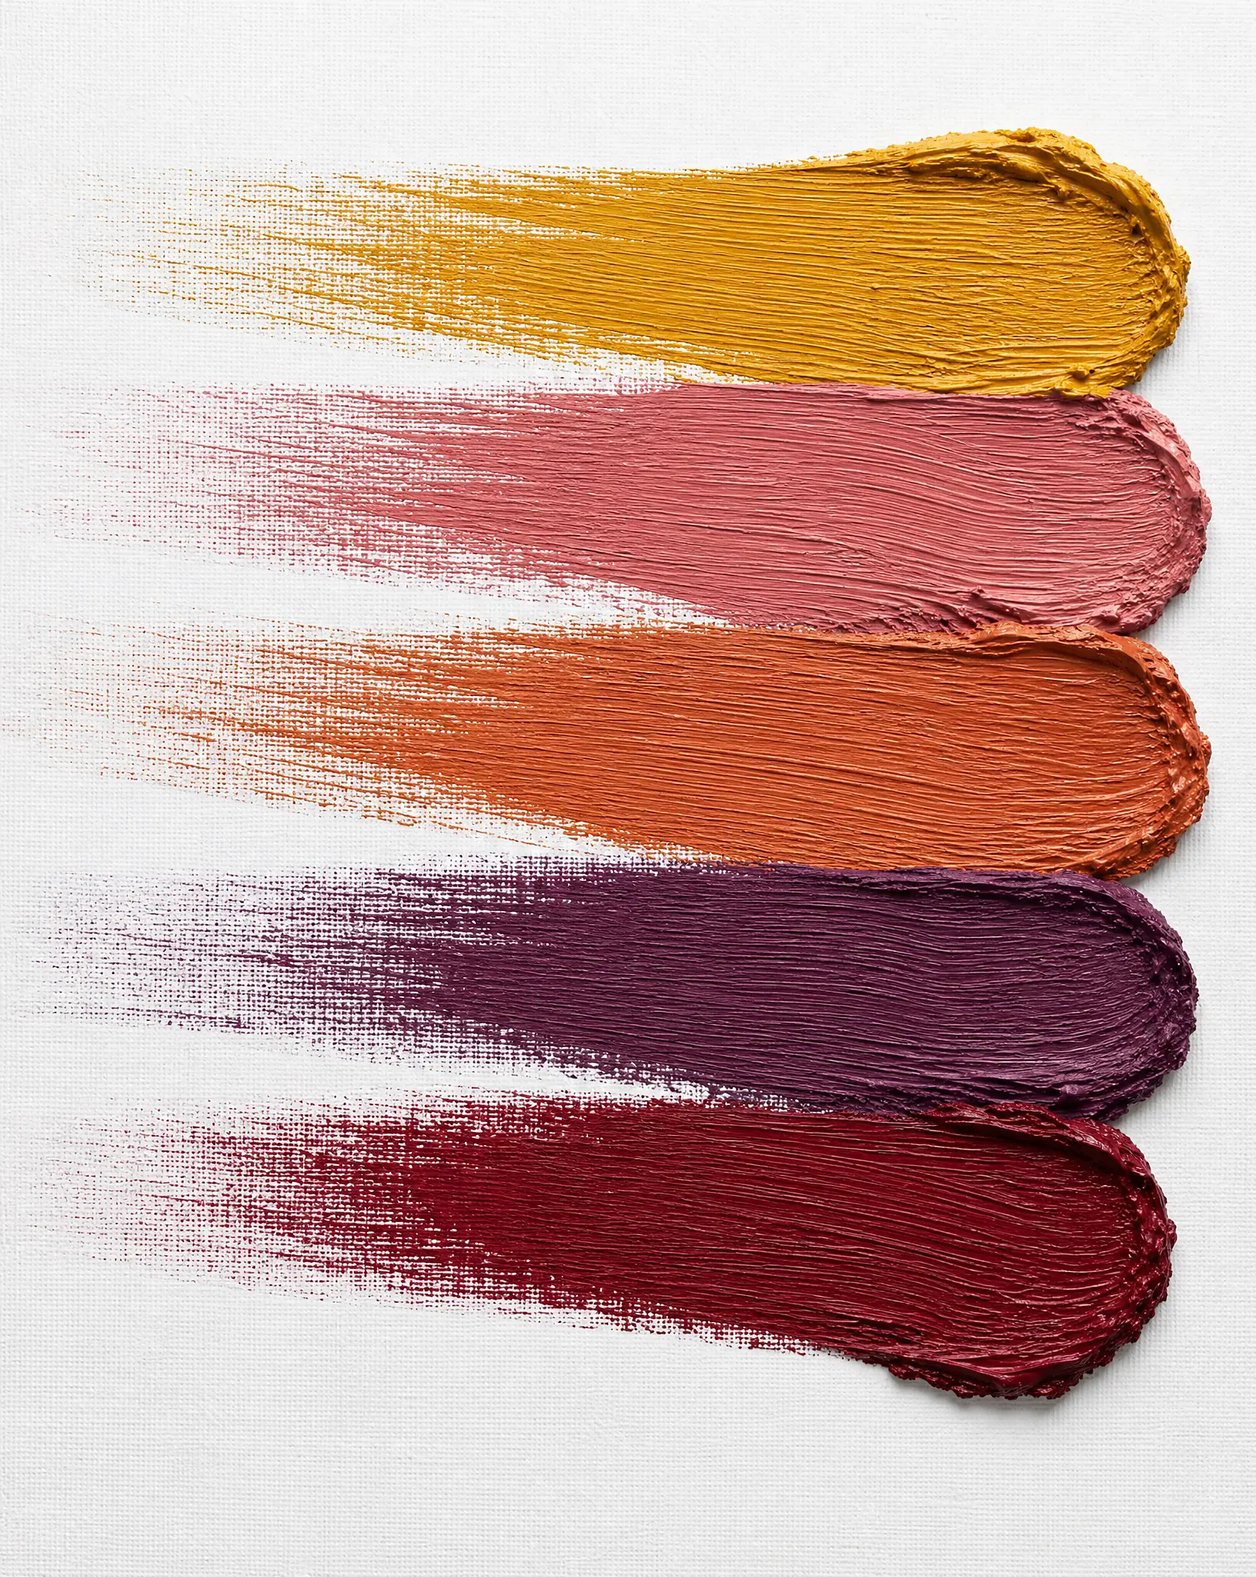
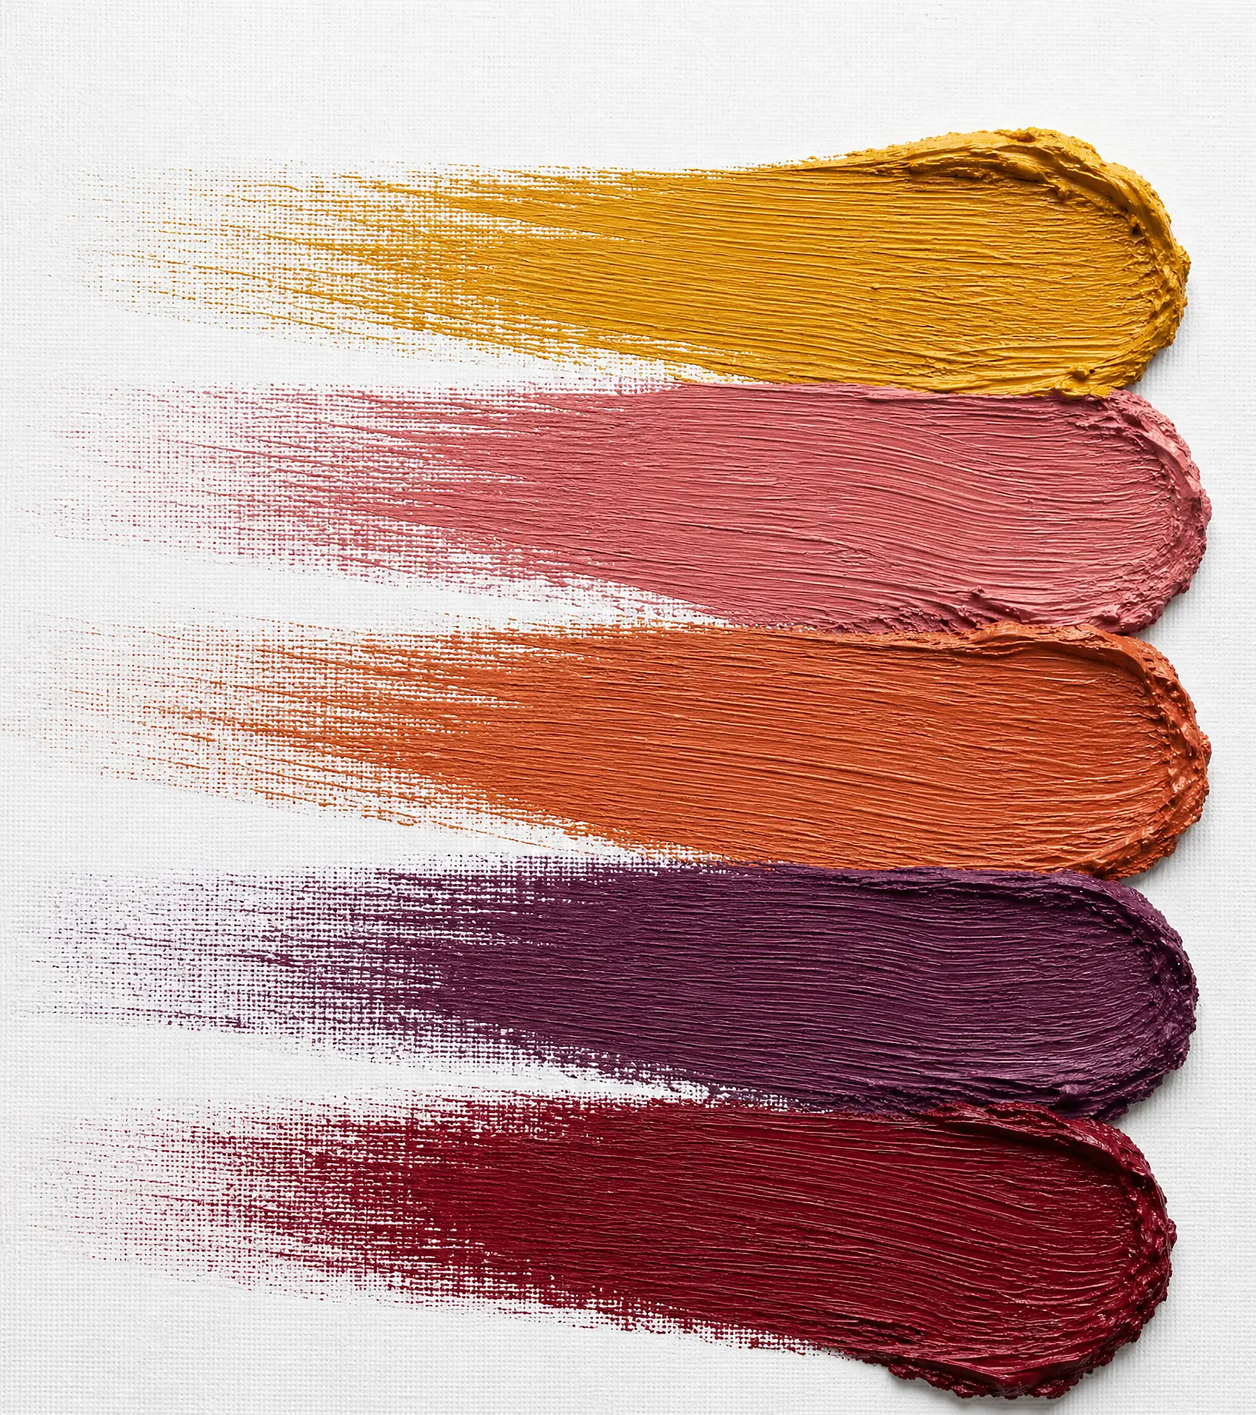
Fill the mobile and tablet hero to its bottom edge
The portrait photograph carries 210px of bare canvas below the last
stroke. Below 1025px the hero frame is always narrower than the artwork,
so object-fit: cover fits by height and crops width — every row of the
file renders, and that margin showed as an empty band under the paint at
the foot of the hero.

Two changes, both below 1025px. Desktop is pixel-identical: same source,
same crops, same files, and its own object-position sits in the
min-width: 1025px blocks.

The source is trimmed at row 1838, the last row carrying pigment,
measured off the file rather than eyeballed. Nothing real is discarded —
the cut is at the paint boundary, not into it. That takes the portrait
from 0.797:1 to 0.888:1; the srcset width descriptors are unchanged, so
image selection is unaffected and no page HTML moves.

The crop shifts from 55% to 85%. The strokes run at a slight diagonal
and their dry-brush tails rise to the left, so a centred window still
left a pale wedge in the bottom corner where the burgundy had already
lifted off. At 85% the burgundy fills the foot of the frame and the
loaded rounded ends of the plum and burgundy come into view, while the
dry fade still sits under the headline. Paint coverage across the hero's
bottom 60px goes from 24-37% to 45-57% on phones.

That rule had to move to the end of the stylesheet to take effect. The
object-position in the max-width: 1024px block was a bare declaration
after the preceding rule had already closed: dead, and it also dropped
[…]

diff --git a/public/assets/css/main.css b/public/assets/css/main.css
@@ -2714,22 +2714,10 @@ a.card:hover { box-shadow: 0 14px 34px rgba(15, 50, 56, 0.12); }
     object-fit: cover;
     border-radius: 0;
   }
-  /* This is now a dedicated portrait (1632x2048) image composed for this
-     aspect ratio, not a crop of the desktop photo — see home.js's image
-     config and the single 1025px <picture> breakpoint in layout.js's
-     heroIntro(). Because the image itself is already taller than any
-     tested container (390x680 through 820x1180 all have a wider aspect
-     ratio than the source's own 0.797), object-fit: cover here only ever
-     crops width, never height — the full vertical extent always renders,
-     so only object-position-x matters.
-     55% sits just right of centre: it keeps the front door and the pair
-     of shuttered openings — the part of the facade that actually reads as
-     "freshly painted" — in frame across the tested widths, while trimming
-     the olive-tree foliage that fills the left edge of the source. The
-     sister site used 90% here to hold a piece of hardware near the right
-     edge in frame; that asset detail is gone from this crop, so the value
-     is retuned to the facade instead of inherited unchanged. */
-    object-position: 55% 50%;
+  /* An object-position for this breakpoint used to sit here, as a bare
+     declaration after the rule above had already closed — dead, and it took
+     the rest of this media query out to top level with it. The live rule is
+     at the end of the file; see HERO CROP BELOW 1025PX. */
   }
   /* Scrim: top-to-bottom (not desktop's left-right) — darkest behind the
      header/text block at the top, easing out by roughly the point the
@@ -3662,12 +3650,10 @@ a.card:hover { box-shadow: 0 14px 34px rgba(15, 50, 56, 0.12); }
     object-fit: cover;
     border-radius: 0;
   }
-  /* Same dedicated portrait (1455x1826) mobile/tablet asset as the
-     homepage's own hero, with the same facade composition — reusing the
-     homepage's own tuned 55% 50% crop keeps the door and shuttered
-     openings fully in frame across the tested widths. */
+  /* Same portrait photograph as the homepage's own hero, so it takes the
+     same crop — see HERO CROP BELOW 1025PX at the end of the file. */
   .page-lagos-rs .hero-stack--split .hero-stack-media picture img {
-    object-position: 55% 50%;
+    object-position: 85% 50%;
   }
   /* Rollout towns without their own photography yet (see
      hasPilotPhotography in town.js) render the standard placeholder box
@@ -4333,5 +4319,34 @@ a.card:hover { box-shadow: 0 14px 34px rgba(15, 50, 56, 0.12); }
     width: 30px;
     height: 30px;
     margin-bottom: 6px;
+  }
+}
+
+/* -------------------------------------------------------------------------
+   HERO CROP BELOW 1025PX
+   -------------------------------------------------------------------------
+   Below 1025px the hero is the portrait photograph, and the frame is always
+   narrower than the artwork — so `object-fit: cover` crops width and never
+   height. Every row of the file renders, which is why its dead bottom margin
+   is trimmed at source in tools/paint/hero_from_photo.py rather than being
+   hidden here, and why only object-position-x does anything.
+
+   85% pushes the window most of the way toward the loaded end of the strokes.
+   The strokes run at a slight diagonal and their dry-brush tails rise to the
+   left, so a centred window leaves a pale wedge of bare canvas in the bottom
+   corner where the burgundy has already lifted off. At 85% the burgundy fills
+   the foot of the frame and the rounded loaded ends of the plum and burgundy
+   come into view, while the dry fade still sits under the headline. Contrast
+   is unaffected — the stats measure 4.89:1 here against 4.96:1 centred.
+
+   This lives at the end of the file rather than in the max-width: 1024px
+   block that looks like its home, because the declaration there was orphaned
+   after a closed rule and never applied. Desktop is untouched: its own crop
+   is set inside the min-width: 1025px blocks and is not matched here.
+   ------------------------------------------------------------------------- */
+@media (max-width: 1024px) {
+  .page-home .hero-stack--split .hero-stack-media picture img,
+  .page-lagos-rs .hero-stack--split .hero-stack-media picture img {
+    object-position: 85% 50%;
   }
 }

diff --git a/src/assets/css/main.css b/src/assets/css/main.css
@@ -2714,22 +2714,10 @@ a.card:hover { box-shadow: 0 14px 34px rgba(15, 50, 56, 0.12); }
     object-fit: cover;
     border-radius: 0;
   }
-  /* This is now a dedicated portrait (1632x2048) image composed for this
-     aspect ratio, not a crop of the desktop photo — see home.js's image
-     config and the single 1025px <picture> breakpoint in layout.js's
-     heroIntro(). Because the image itself is already taller than any
-     tested container (390x680 through 820x1180 all have a wider aspect
-     ratio than the source's own 0.797), object-fit: cover here only ever
-     crops width, never height — the full vertical extent always renders,
-     so only object-position-x matters.
-     55% sits just right of centre: it keeps the front door and the pair
-     of shuttered openings — the part of the facade that actually reads as
-     "freshly painted" — in frame across the tested widths, while trimming
-     the olive-tree foliage that fills the left edge of the source. The
-     sister site used 90% here to hold a piece of hardware near the right
-     edge in frame; that asset detail is gone from this crop, so the value
-     is retuned to the facade instead of inherited unchanged. */
-    object-position: 55% 50%;
+  /* An object-position for this breakpoint used to sit here, as a bare
+     declaration after the rule above had already closed — dead, and it took
+     the rest of this media query out to top level with it. The live rule is
+     at the end of the file; see HERO CROP BELOW 1025PX. */
   }
   /* Scrim: top-to-bottom (not desktop's left-right) — darkest behind the
      header/text block at the top, easing out by roughly the point the
@@ -3662,12 +3650,10 @@ a.card:hover { box-shadow: 0 14px 34px rgba(15, 50, 56, 0.12); }
     object-fit: cover;
     border-radius: 0;
   }
-  /* Same dedicated portrait (1455x1826) mobile/tablet asset as the
-     homepage's own hero, with the same facade composition — reusing the
-     homepage's own tuned 55% 50% crop keeps the door and shuttered
-     openings fully in frame across the tested widths. */
+  /* Same portrait photograph as the homepage's own hero, so it takes the
+     same crop — see HERO CROP BELOW 1025PX at the end of the file. */
   .page-lagos-rs .hero-stack--split .hero-stack-media picture img {
-    object-position: 55% 50%;
+    object-position: 85% 50%;
   }
   /* Rollout towns without their own photography yet (see
      hasPilotPhotography in town.js) render the standard placeholder box
@@ -4333,5 +4319,34 @@ a.card:hover { box-shadow: 0 14px 34px rgba(15, 50, 56, 0.12); }
     width: 30px;
     height: 30px;
     margin-bottom: 6px;
+  }
+}
+
+/* -------------------------------------------------------------------------
+   HERO CROP BELOW 1025PX
+   -------------------------------------------------------------------------
+   Below 1025px the hero is the portrait photograph, and the frame is always
+   narrower than the artwork — so `object-fit: cover` crops width and never
+   height. Every row of the file renders, which is why its dead bottom margin
+   is trimmed at source in tools/paint/hero_from_photo.py rather than being
+   hidden here, and why only object-position-x does anything.
+
+   85% pushes the window most of the way toward the loaded end of the strokes.
+   The strokes run at a slight diagonal and their dry-brush tails rise to the
+   left, so a centred window leaves a pale wedge of bare canvas in the bottom
+   corner where the burgundy has already lifted off. At 85% the burgundy fills
+   the foot of the frame and the rounded loaded ends of the plum and burgundy
+   come into view, while the dry fade still sits under the headline. Contrast
+   is unaffected — the stats measure 4.89:1 here against 4.96:1 centred.
+
+   This lives at the end of the file rather than in the max-width: 1024px
+   block that looks like its home, because the declaration there was orphaned
+   after a closed rule and never applied. Desktop is untouched: its own crop
+   is set inside the min-width: 1025px blocks and is not matched here.
+   ------------------------------------------------------------------------- */
+@media (max-width: 1024px) {
+  .page-home .hero-stack--split .hero-stack-media picture img,
+  .page-lagos-rs .hero-stack--split .hero-stack-media picture img {
+    object-position: 85% 50%;
   }
 }

diff --git a/tools/paint/hero_from_photo.py b/tools/paint/hero_from_photo.py
@@ -19,11 +19,19 @@ rather than beside it, so the argument there is weaker — but mirroring it
 too keeps the artwork facing the same way at every width, so resizing past
 1025px does not flip the strokes end for end.
 
-The portrait source needs no recomposition: it is already 0.797:1, the exact
-frame the mobile hero renders into, so it is resized rather than cropped or
-laid onto a made-up ground. (The previous mobile art was the 16:9 photograph
-pasted low on a matching canvas colour, which was only ever a way of not
-losing three of the five strokes to a crop.)
+The portrait source needs no recomposition — it is shot in the orientation
+the mobile hero renders into, so it is resized rather than cropped to shape
+or laid onto a made-up ground. (The previous mobile art was the 16:9
+photograph pasted low on a matching canvas colour, which was only ever a way
+of not losing three of the five strokes to a crop.)
+
+Its dead bottom margin is trimmed, though. Below 1025px the hero frame is
+always narrower than the artwork, so `object-fit: cover` fits the image by
+HEIGHT and crops width — which means every row of the file renders, and the
+photograph's bottom 210px of bare canvas showed as an empty band under the
+strokes at the foot of the hero. Trimming to the last row that carries paint
+puts the burgundy on the frame's bottom edge. Nothing is discarded: the cut
+is at the paint boundary, not into it.
 """
 from PIL import Image, ImageOps, ImageFilter
 
@@ -75,10 +83,18 @@ def main():
     # compared side by side at 1:1 against q82, no difference is visible —
     # while the flat pigment fields that would show banding are exactly where
     # the encoder spends least. Desktop is untouched at q82.
+    # PAINT_BOTTOM is the last row of the portrait source carrying pigment,
+    # measured off the file rather than eyeballed. Everything below it is
+    # bare canvas, and below 1025px every row renders (see the module
+    # docstring), so it would show as an empty band under the strokes.
+    # Trimming it takes the source from 0.797:1 to 0.888:1; the srcset width
+    # descriptors are unchanged, so image selection is unaffected.
+    PAINT_BOTTOM = 1838
     m = ImageOps.mirror(Image.open(SRC_MOBILE).convert('RGB'))
-    save(fit(m,  850, 1067), IMG + 'hero-paint-mobile@sm', q=76)
-    save(fit(m, 1250, 1569), IMG + 'hero-paint-mobile',    q=76)
-    save(fit(m, 1632, 2048), IMG + 'hero-paint-mobile@2x', q=76, sharpen=True)
+    m = m.crop((0, 0, m.width, PAINT_BOTTOM))
+    save(fit(m,  850,  957), IMG + 'hero-paint-mobile@sm', q=76)
+    save(fit(m, 1250, 1408), IMG + 'hero-paint-mobile',    q=76)
+    save(fit(m, 1632, 1838), IMG + 'hero-paint-mobile@2x', q=76, sharpen=True)
 
     print('hero built: desktop from %s, mobile/tablet from %s (both mirrored)'
           % (SRC_DESKTOP, SRC_MOBILE))

diff --git a/README.md b/README.md
@@ -66,11 +66,12 @@ The `/public` folder is a complete static site — point any static host at it:
 **v4 "paint-craft"** — warm, tactile and pigment-led, replacing the navy/crimson palette inherited from the sister site. Structure, layout, grid, components, breakpoints and the measured hero budgets are unchanged; this is a visual restyle, not a rebuild.
 
 - **Page palette** — terracotta `#c25a38` (the accent; `#b85132` wherever it sits behind text, so button labels clear WCAG AA), ochre `#d9a02b`, dusty pink `#d9a08c`, deep brown `#3a241a` for text and dark surfaces, cream `#fbf4e8` as the ground.
-- **Hero** — two photographs of the same five impasto strokes (ochre, dusty rose, orange, deep plum, burgundy) on artist's canvas, one per orientation: `paint example.png` (2048×1152) for desktop from 1025px up, `paint-mobile.png` (1632×2048) for mobile and tablet below it. `tools/paint/hero_from_photo.py` owns the resulting hero files; `generate.py` deliberately no longer writes them, or a routine run would silently overwrite the artwork. Both sources are **mirrored**: the paint mass sits on the left of each photograph and desktop puts its headline there, so unmirrored every word would sit on thick opaque pigment. Mobile stacks its text above the image rather than beside it, so the argument is weaker there — but mirroring it too keeps the artwork facing the same way at every width, so resizing past 1025px does not flip the strokes end for end. The portrait source needs no recomposition: it is already 0.797:1, the exact frame the mobile hero renders into, where the art it replaced was the landscape photo pasted low on a matching canvas ground to avoid losing three of the five strokes to a crop.
-- **Hero resolution ceiling** — each large candidate is its source's native size, never an upscale. Mobile and tablet are now fully covered: a 1024px tablet at DPR 2 needs 2048px and the portrait source is exactly that tall. Desktop is not — a high-DPI desktop still upscales (1.9× at 1920 DPR 2), because the landscape source is 2048px wide. A light unsharp mask on the large landscape candidates recovers some crispness, but a higher-resolution original is the real fix.
+- **Hero** — two photographs of the same five impasto strokes (ochre, dusty rose, orange, deep plum, burgundy) on artist's canvas, one per orientation: `paint example.png` (2048×1152) for desktop from 1025px up, `paint-mobile.png` (1632×2048) for mobile and tablet below it. `tools/paint/hero_from_photo.py` owns the resulting hero files; `generate.py` deliberately no longer writes them, or a routine run would silently overwrite the artwork. Both sources are **mirrored**: the paint mass sits on the left of each photograph and desktop puts its headline there, so unmirrored every word would sit on thick opaque pigment. Mobile stacks its text above the image rather than beside it, so the argument is weaker there — but mirroring it too keeps the artwork facing the same way at every width, so resizing past 1025px does not flip the strokes end for end. The portrait source needs no recomposition — it is shot in the orientation the mobile hero renders into, where the art it replaced was the landscape photo pasted low on a matching canvas ground to avoid losing three of the five strokes to a crop. Its dead bottom margin **is** trimmed, at row 1838 (the last row carrying pigment, measured off the file). Below 1025px the frame is always narrower than the artwork, so `object-fit: cover` fits by height and crops width — every row renders, and the photograph's bottom 210px of bare canvas showed as an empty band under the strokes at the foot of the hero. Trimming takes the source from 0.797:1 to 0.888:1 and puts the burgundy on the frame's bottom edge; nothing is discarded, since the cut is at the paint boundary rather than into it.
+- **Hero resolution ceiling** — each large candidate is its source's native width, never an upscale, but neither source is wide enough to cover every device. Phones are fine (a 430px handset at DPR 3 needs 1290px and gets 1632px). A large tablet at DPR 2 needs 2048px and gets 1632px, a 1.26× upscale; a high-DPI desktop needs 3840px at 1920 DPR 2 and gets 2048px, a 1.9× one. A light unsharp mask on the large candidates recovers some crispness — it cannot add detail that is not in the source, so higher-resolution originals are the real fix, and the desktop one is the more urgent.
 - **Generated marks** — the section swatches, CTA watermark and favicon are still generated (`tools/paint/generate.py`) in a palette chosen to sit with the photograph.
 - **Hero stats, no band** — the trust row sits directly on the photograph, with no surface behind it. It cannot do that in its old shape: three labels on one line need about 631px of glyphs at 25px, while the hero's light field runs out around 460px across — left as it was the row measured 1.32:1. Neither reframing nor a soft wash fixes it (`object-position` swept 0–55% never rose above 1.31:1, because a 16:9 source in a 1.6 box is barely cropped horizontally; and extending the veil to 930px, past the text column itself, still only reached 2.11:1). What works is making the row narrow enough to stay on the light field: above 1025px it adopts the stacked value-over-label format the mobile hero already uses, which needs ~470px for the same three stats at the same 25px value size. Measured worst case 4.97:1 on the values and 5.60:1 on the labels, both at 1025px — clear of AA for normal text, with the paint running unbroken behind them. **Tablet (768–1024px) is the exception**: there the row is bottom-anchored over the strokes at every width, so it keeps its translucent cream panel — removing it drops the labels to 1.01:1.
-- **Hero resolution** — heroes are selected by *width* descriptor with `sizes="100vw"`, not by DPR. The hero is full-bleed, so what matters is viewport width × DPR: a 390px phone at DPR 2 needs 780px and takes the 850px portrait file, the same phone at DPR 3 needs 1170px and takes the 1250px one, while a 1024px tablet at DPR 2 needs 2048px and takes the 1632px one. A `2x` descriptor would hand that first phone the largest file purely for its pixel density. Desktop ships two candidates (1500/2048); **portrait ships three** (850/1250/1632), because its source is photographic edge to edge where the art it replaced was half flat synthetic ground — like for like the 1250px file is roughly three times the weight, and this is the LCP image on the platform least able to afford it. Portrait encodes at q76 rather than q82 for the same reason: the dry-brush grain and canvas tooth run through the whole frame and mask webp artefacts completely (compared at 1:1 against q82, no difference is visible), and it takes ~22% off. Desktop is untouched at q82.
+- **Hero resolution** — heroes are selected by *width* descriptor with `sizes="100vw"`, not by DPR. The hero is full-bleed, so what matters is viewport width × DPR: a 390px phone at DPR 2 needs 780px and takes the 850px portrait file, the same phone at DPR 3 needs 1170px and takes the 1250px one, while a 1024px tablet at DPR 2 needs 2048px and takes the largest, 1632px. A `2x` descriptor would hand that first phone the largest file purely for its pixel density. Desktop ships two candidates (1500/2048); **portrait ships three** (850/1250/1632), because its source is photographic edge to edge where the art it replaced was half flat synthetic ground — like for like the 1250px file is roughly three times the weight, and this is the LCP image on the platform least able to afford it. Portrait encodes at q76 rather than q82 for the same reason: the dry-brush grain and canvas tooth run through the whole frame and mask webp artefacts completely (compared at 1:1 against q82, no difference is visible), and it takes ~22% off. Desktop is untouched at q82.
+- **Hero crop below 1025px** — `object-position: 85% 50%`, set in a `HERO CROP BELOW 1025PX` block at the end of `main.css`. The strokes run at a slight diagonal and their dry-brush tails rise to the left, so a centred window leaves a pale wedge of bare canvas in the bottom corner where the burgundy has already lifted off; at 85% the burgundy fills the foot of the frame and the loaded rounded ends of the plum and burgundy come into view, while the dry fade still sits under the headline. Contrast is unaffected — the stats measure 4.89:1 against 4.96:1 centred. It lives at the end of the file because the declaration in the `max-width: 1024px` block that looks like its home was **orphaned after a closed rule** and never applied — the second instance of this defect found in the inherited stylesheet, and like the first it also drops the rest of that media query to top level. Neither was re-nested: doing so would change what applies at desktop.
 - **Type** — Fredoka (rounded display) for headlines, wordmark, buttons and labels; Nunito Sans for running text; Caveat (brush script) reserved for the wordmark's "Painter" and the hero tagline, so it reads as a signature rather than decoration. All three are self-hosted variable fonts in `src/assets/fonts` — no Google Fonts request, no third-party dependency.
 - **Wordmark** — "Algarve" in the display face, "Painter" in the script with a tapered brushstroke swiped underneath (the SVG lives in `wordmarkHtml` in `layout.js`).
 - **Everything the token swap can't express** lives in one clearly-marked `PAINT-CRAFT RESTYLE` block at the very end of `main.css` — type roles, the painted section marks, the wordmark, the trust band and the button fills. It sits last because much of the inherited stylesheet carries `!important` at high specificity.
